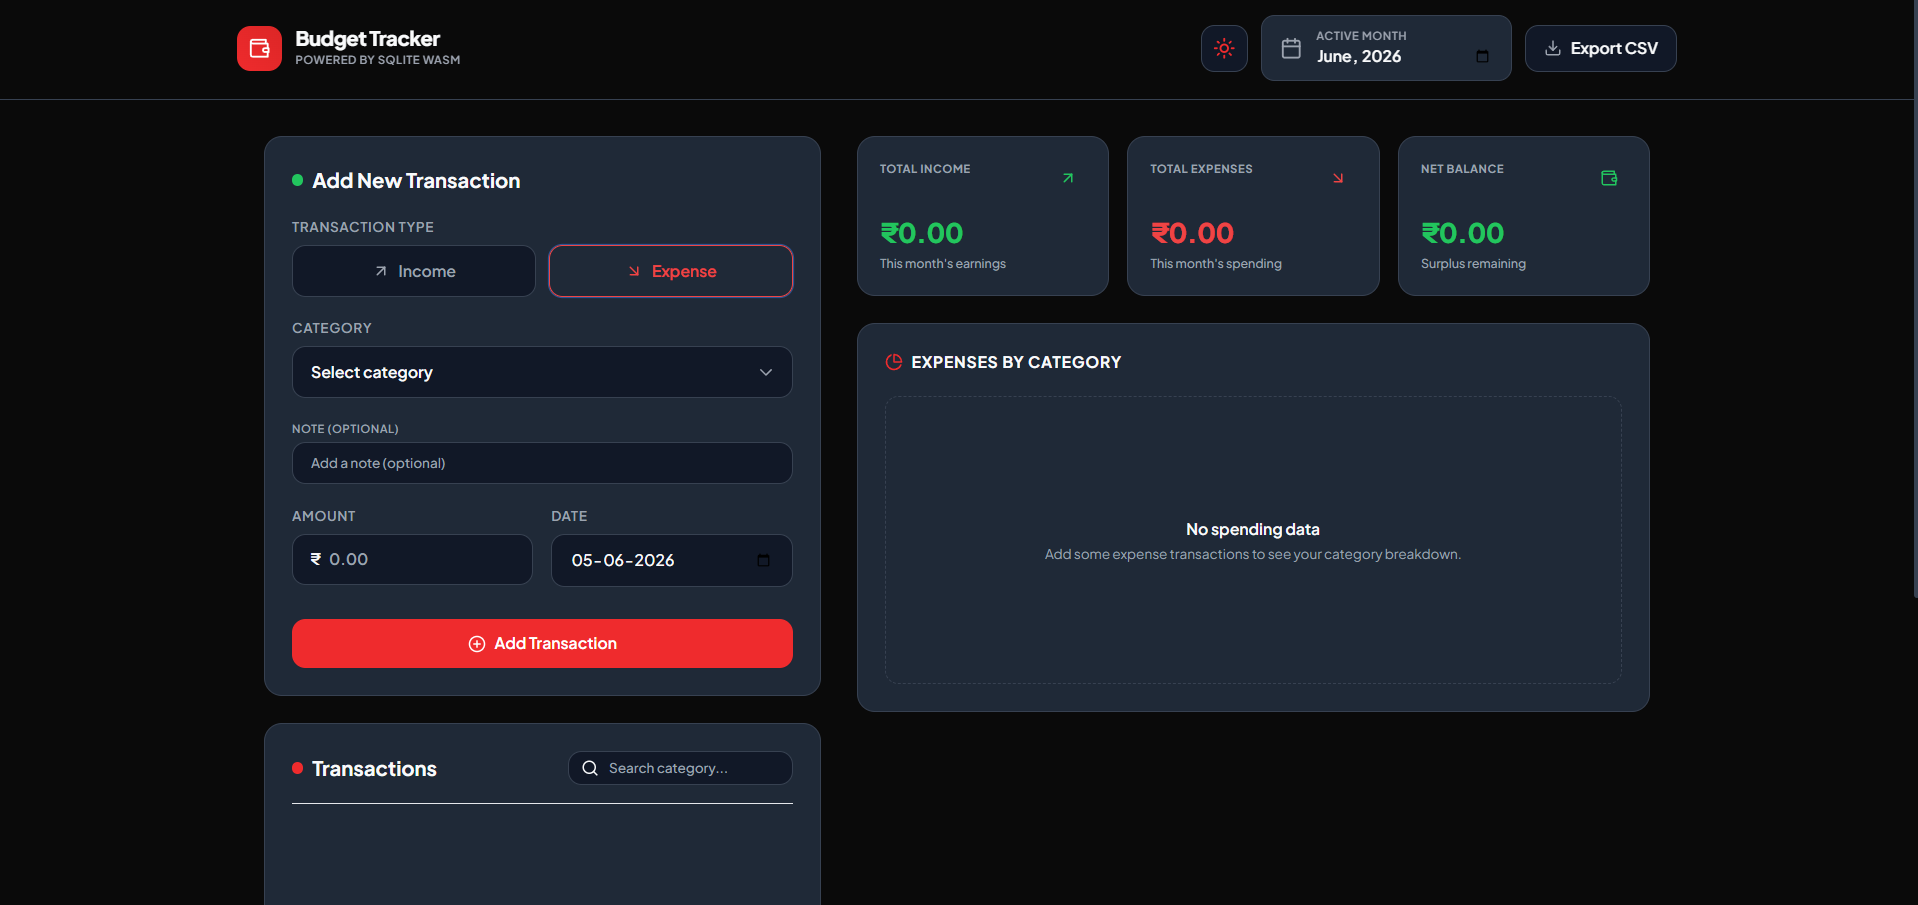
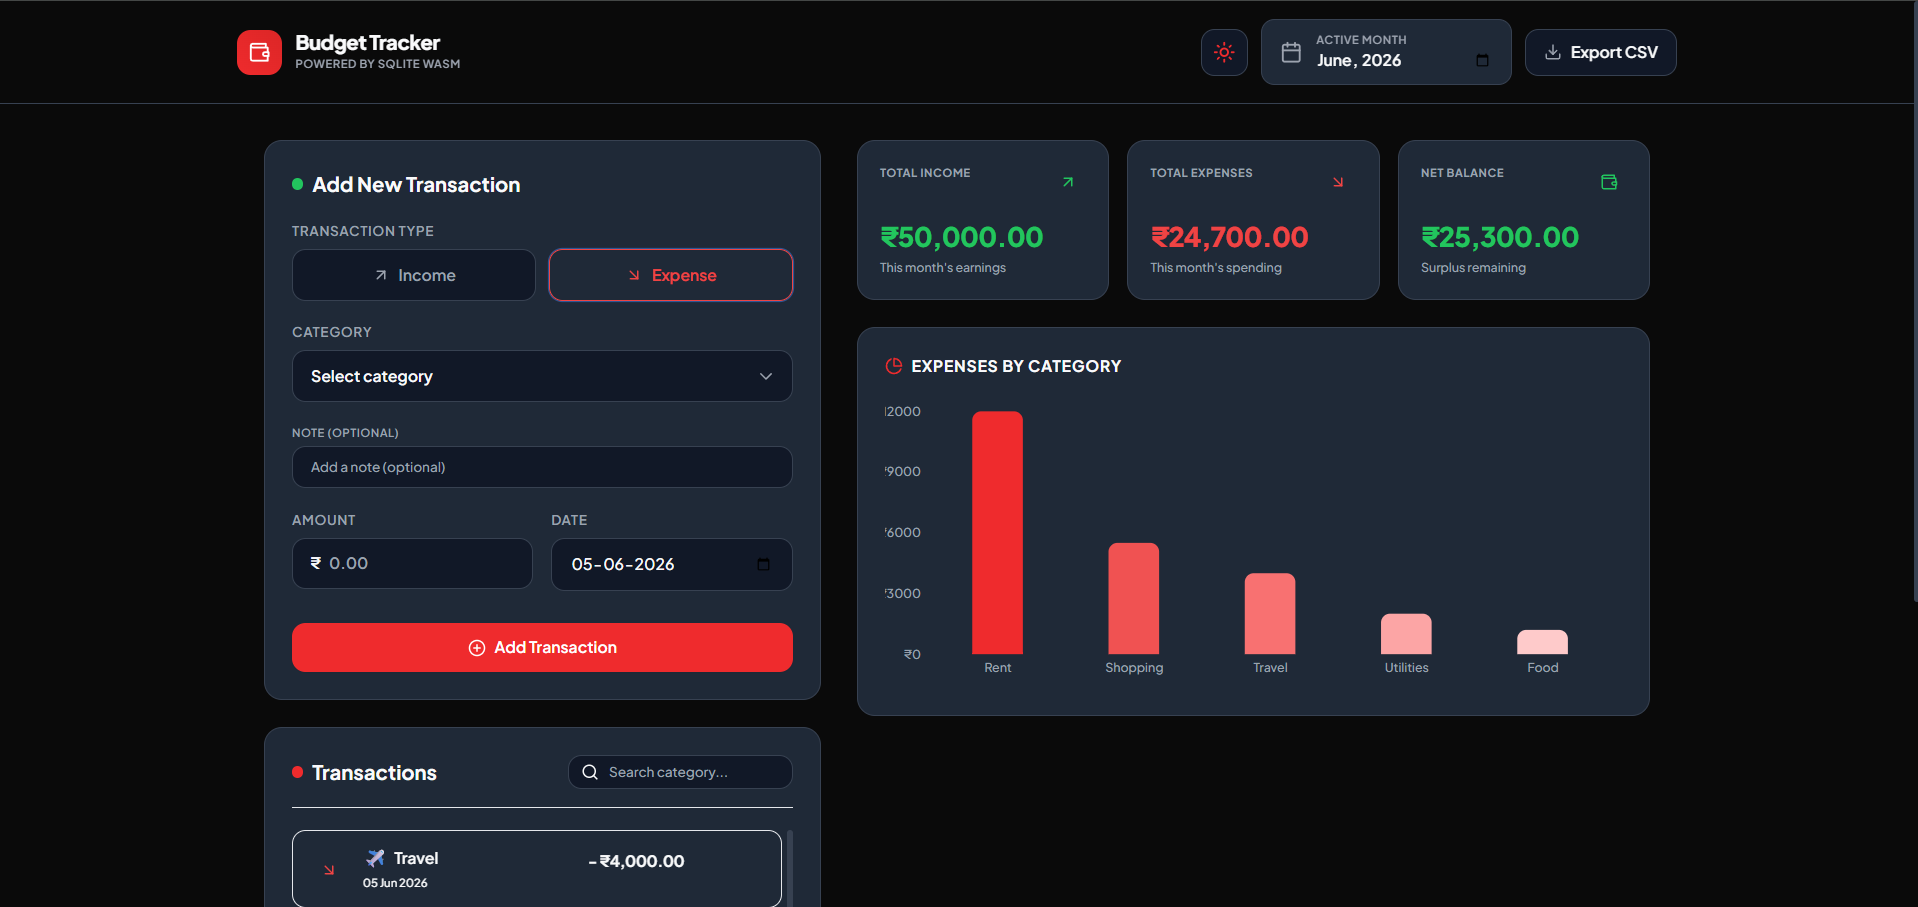
modified readme.md

diff --git a/src/components/MonthPicker.jsx b/src/components/MonthPicker.jsx
@@ -3,10 +3,10 @@ import { Calendar } from 'lucide-react';
 
 export default function MonthPicker({ selectedMonth, onChange }) {
   return (
-    <div className="flex items-center gap-3 bg-card border border-border px-4 py-2.5 rounded-xl shadow-sm hover:border-textSecondary/30 transition-colors">
-      <Calendar className="text-textSecondary w-5 h-5" />
-      <div className="flex flex-col">
-        <label htmlFor="month-select" className="text-[10px] uppercase tracking-wider font-semibold text-textSecondary select-none">
+    <div className="flex items-center gap-1.5 sm:gap-3 bg-card border border-border px-2.5 py-1.5 sm:px-4 sm:py-2.5 rounded-xl shadow-sm hover:border-textSecondary/30 transition-colors">
+      <Calendar className="text-textSecondary w-4 h-4 sm:w-5 sm:h-5 shrink-0" />
+      <div className="flex flex-col min-w-0">
+        <label htmlFor="month-select" className="text-[8px] sm:text-[10px] uppercase tracking-wider font-semibold text-textSecondary select-none truncate">
           Active Month
         </label>
         <input
@@ -14,7 +14,7 @@ export default function MonthPicker({ selectedMonth, onChange }) {
           type="month"
           value={selectedMonth}
           onChange={(e) => onChange(e.target.value)}
-          className="bg-transparent text-textPrimary font-semibold text-sm focus:outline-none cursor-pointer"
+          className="bg-transparent text-textPrimary font-semibold text-xs sm:text-sm focus:outline-none cursor-pointer w-full min-w-[100px] sm:min-w-[120px]"
         />
       </div>
     </div>

diff --git a/src/App.jsx b/src/App.jsx
@@ -156,8 +156,8 @@ export default function App() {
       />
 
       {/* Header bar */}
-      <header className="sticky top-0 bg-card/85 backdrop-blur-md border-b border-border z-40 px-6 py-4 shadow-sm select-none">
-        <div className="max-w-7xl mx-auto flex flex-col sm:flex-row items-center justify-between gap-4">
+      <header className="sticky top-0 bg-card/85 backdrop-blur-md border-b border-border z-40 px-4 sm:px-6 py-3 sm:py-4 shadow-sm select-none">
+        <div className="max-w-7xl mx-auto flex flex-col sm:flex-row items-center justify-between gap-3 sm:gap-4">
           
           {/* Logo Title */}
           <div className="flex items-center gap-3">
@@ -175,7 +175,7 @@ export default function App() {
           </div>
 
           {/* Month picker & Actions */}
-          <div className="flex flex-wrap items-center gap-2 sm:gap-3 w-full sm:w-auto justify-end">
+          <div className="flex items-center gap-1.5 sm:gap-3 w-full sm:w-auto justify-center sm:justify-end">
             <ThemeToggle theme={theme} toggleTheme={toggleTheme} />
             <MonthPicker selectedMonth={selectedMonth} onChange={setSelectedMonth} />
             <ExportButton selectedMonth={selectedMonth} />

diff --git a/src/components/ExportButton.jsx b/src/components/ExportButton.jsx
@@ -36,10 +36,10 @@ export default function ExportButton({ selectedMonth }) {
   return (
     <button
       onClick={handleExport}
-      className="flex items-center justify-center gap-2 bg-surface hover:bg-border/40 text-textPrimary border border-border px-4 py-2.5 rounded-xl text-sm font-semibold shadow-sm hover:border-textSecondary/30 transition-all duration-200"
+      className="flex items-center justify-center gap-1.5 sm:gap-2 bg-surface hover:bg-border/40 text-textPrimary border border-border px-2.5 py-2 sm:px-4 sm:py-2.5 rounded-xl text-xs sm:text-sm font-semibold shadow-sm hover:border-textSecondary/30 transition-all duration-200 shrink-0"
       title="Export month data to CSV"
     >
-      <Download className="w-4 h-4 text-textSecondary" />
+      <Download className="w-3.5 h-3.5 sm:w-4 sm:h-4 text-textSecondary shrink-0" />
       <span>Export CSV</span>
     </button>
   );

diff --git a/src/components/ThemeToggle.jsx b/src/components/ThemeToggle.jsx
@@ -5,7 +5,7 @@ export default function ThemeToggle({ theme, toggleTheme }) {
   return (
     <button
       onClick={toggleTheme}
-      className="flex items-center justify-center p-2.5 bg-surface hover:bg-border/30 text-textPrimary border border-border rounded-xl shadow-sm hover:border-textSecondary/30 active:scale-95 transition-all duration-300 group"
+      className="flex items-center justify-center p-2 sm:p-2.5 bg-surface hover:bg-border/30 text-textPrimary border border-border rounded-xl shadow-sm hover:border-textSecondary/30 active:scale-95 transition-all duration-300 group shrink-0"
       title={theme === 'dark' ? 'Switch to Light Mode' : 'Switch to Dark Mode'}
       aria-label="Toggle Theme"
     >

diff --git a/README.md b/README.md
@@ -52,22 +52,22 @@ Below are placeholders where you can add your custom screenshots of the applicat
 
 ### 1. Dashboard Overview
 
-<img src="./screenshots/dashboard_overview.png" width="700" alt="Alt Text">  
+<img src="https://github.com/bhargav2006/azentrix-fullstack-task1/blob/main/screenshots/dashboard_overview.png?raw=true" width="500" alt="dashboard_overview"><img src="https://github.com/bhargav2006/azentrix-fullstack-task1/blob/main/screenshots/dashboard_overview_mobile.jpeg" width="300" alt="dashboard_overview_mobile">  
 _Figure 1: Dashboard overview displaying responsive Total Income, Total Expenses, and Net Balance summary cards alongside the Recharts category expense distribution bar chart._
 
 ### 2. Adding Transaction Form
 
-<img src="./screenshots/adding_transaction_form.png" width="300" alt="Alt Text"><img src="./screenshots/editing_transaction_form.png" width="300" alt="Alt Text">  
+<img src="https://github.com/bhargav2006/azentrix-fullstack-task1/blob/main/screenshots/adding_transaction_form.png?raw=true" width="300" alt="adding_transaction_form"><img src="https://github.com/bhargav2006/azentrix-fullstack-task1/blob/main/screenshots/editing_transaction_form.png?raw=true" width="300" alt="editing_transaction_form">  
 _Figure 2: Transaction adding & updating form, showcasing the minimalist responsive category dropdown, type toggle badges, and the secondary optional note field._
 
 ### 3. Transaction Ledger with Search and Analytics Chart
 
-<img src="./screenshots/transaction_list.png" width="350" alt="Alt Text"><img src="./screenshots/analytics_chart.png" width="350" alt="Alt Text">  
+<img src="https://github.com/bhargav2006/azentrix-fullstack-task1/blob/main/screenshots/transaction_list.png?raw=true" width="350" alt="transaction_list"><img src="https://github.com/bhargav2006/azentrix-fullstack-task1/blob/main/screenshots/analytics_chart.png?raw=true" width="350" alt="analytics_chart">  
 _Figure 3: Transaction ledger with search functionality alongside category-wise expense analytics visualization._
 
 ### 4. Exported CSV
 
-<img src="./screenshots/exported_csv.png" width="500" alt="Alt Text">  
+<img src="https://github.com/bhargav2006/azentrix-fullstack-task1/blob/main/screenshots/exported_csv.png?raw=true" width="500" alt="exported_csv">  
 _Figure 4: Exported CSV file showing the list of transactions for the selected month._
 
 ---